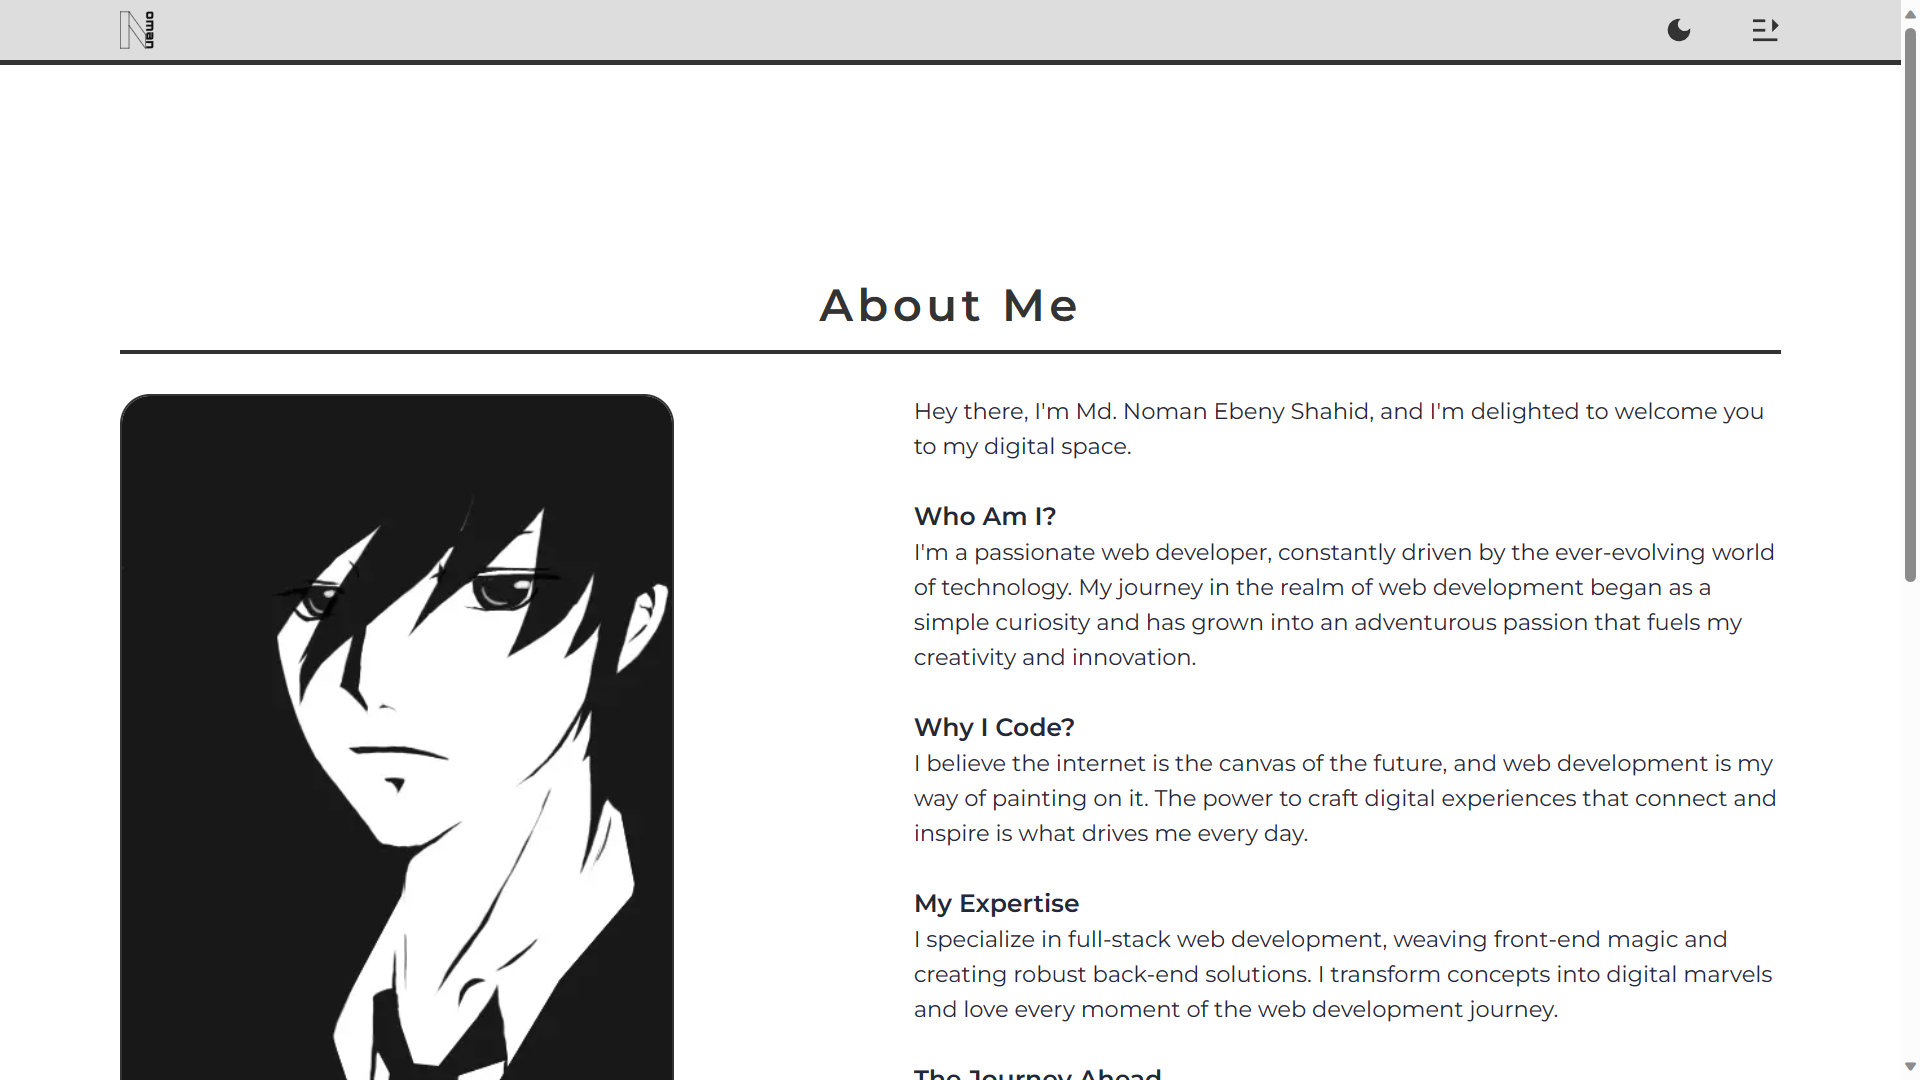
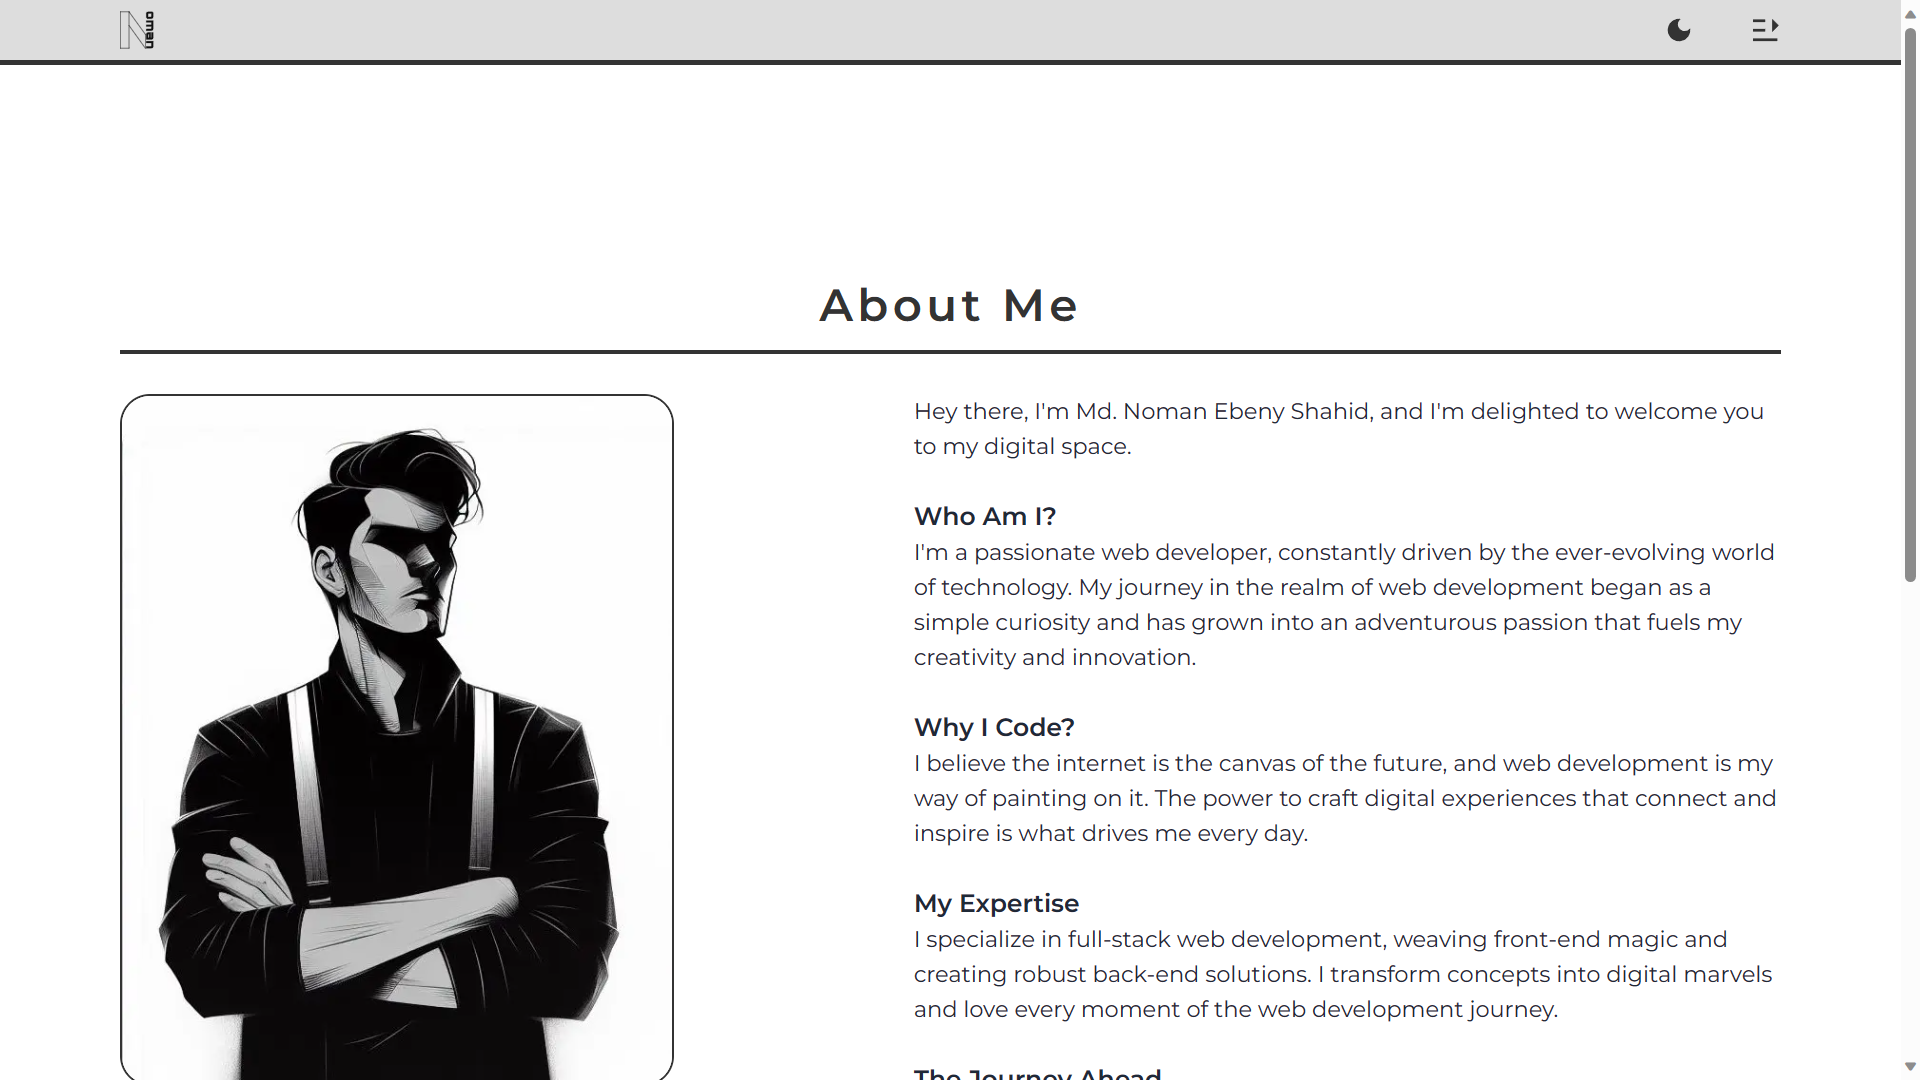
some image of project changed, unused img deleted

Changed region(s): [[0.0625, 0.3667, 0.375, 1.0]]

diff --git a/next.config.js b/next.config.js
@@ -1,6 +1,4 @@
 /** @type {import('next').NextConfig} */
-const nextConfig = {
-  output: "export",
-};
+const nextConfig = {};
 
 module.exports = nextConfig;
